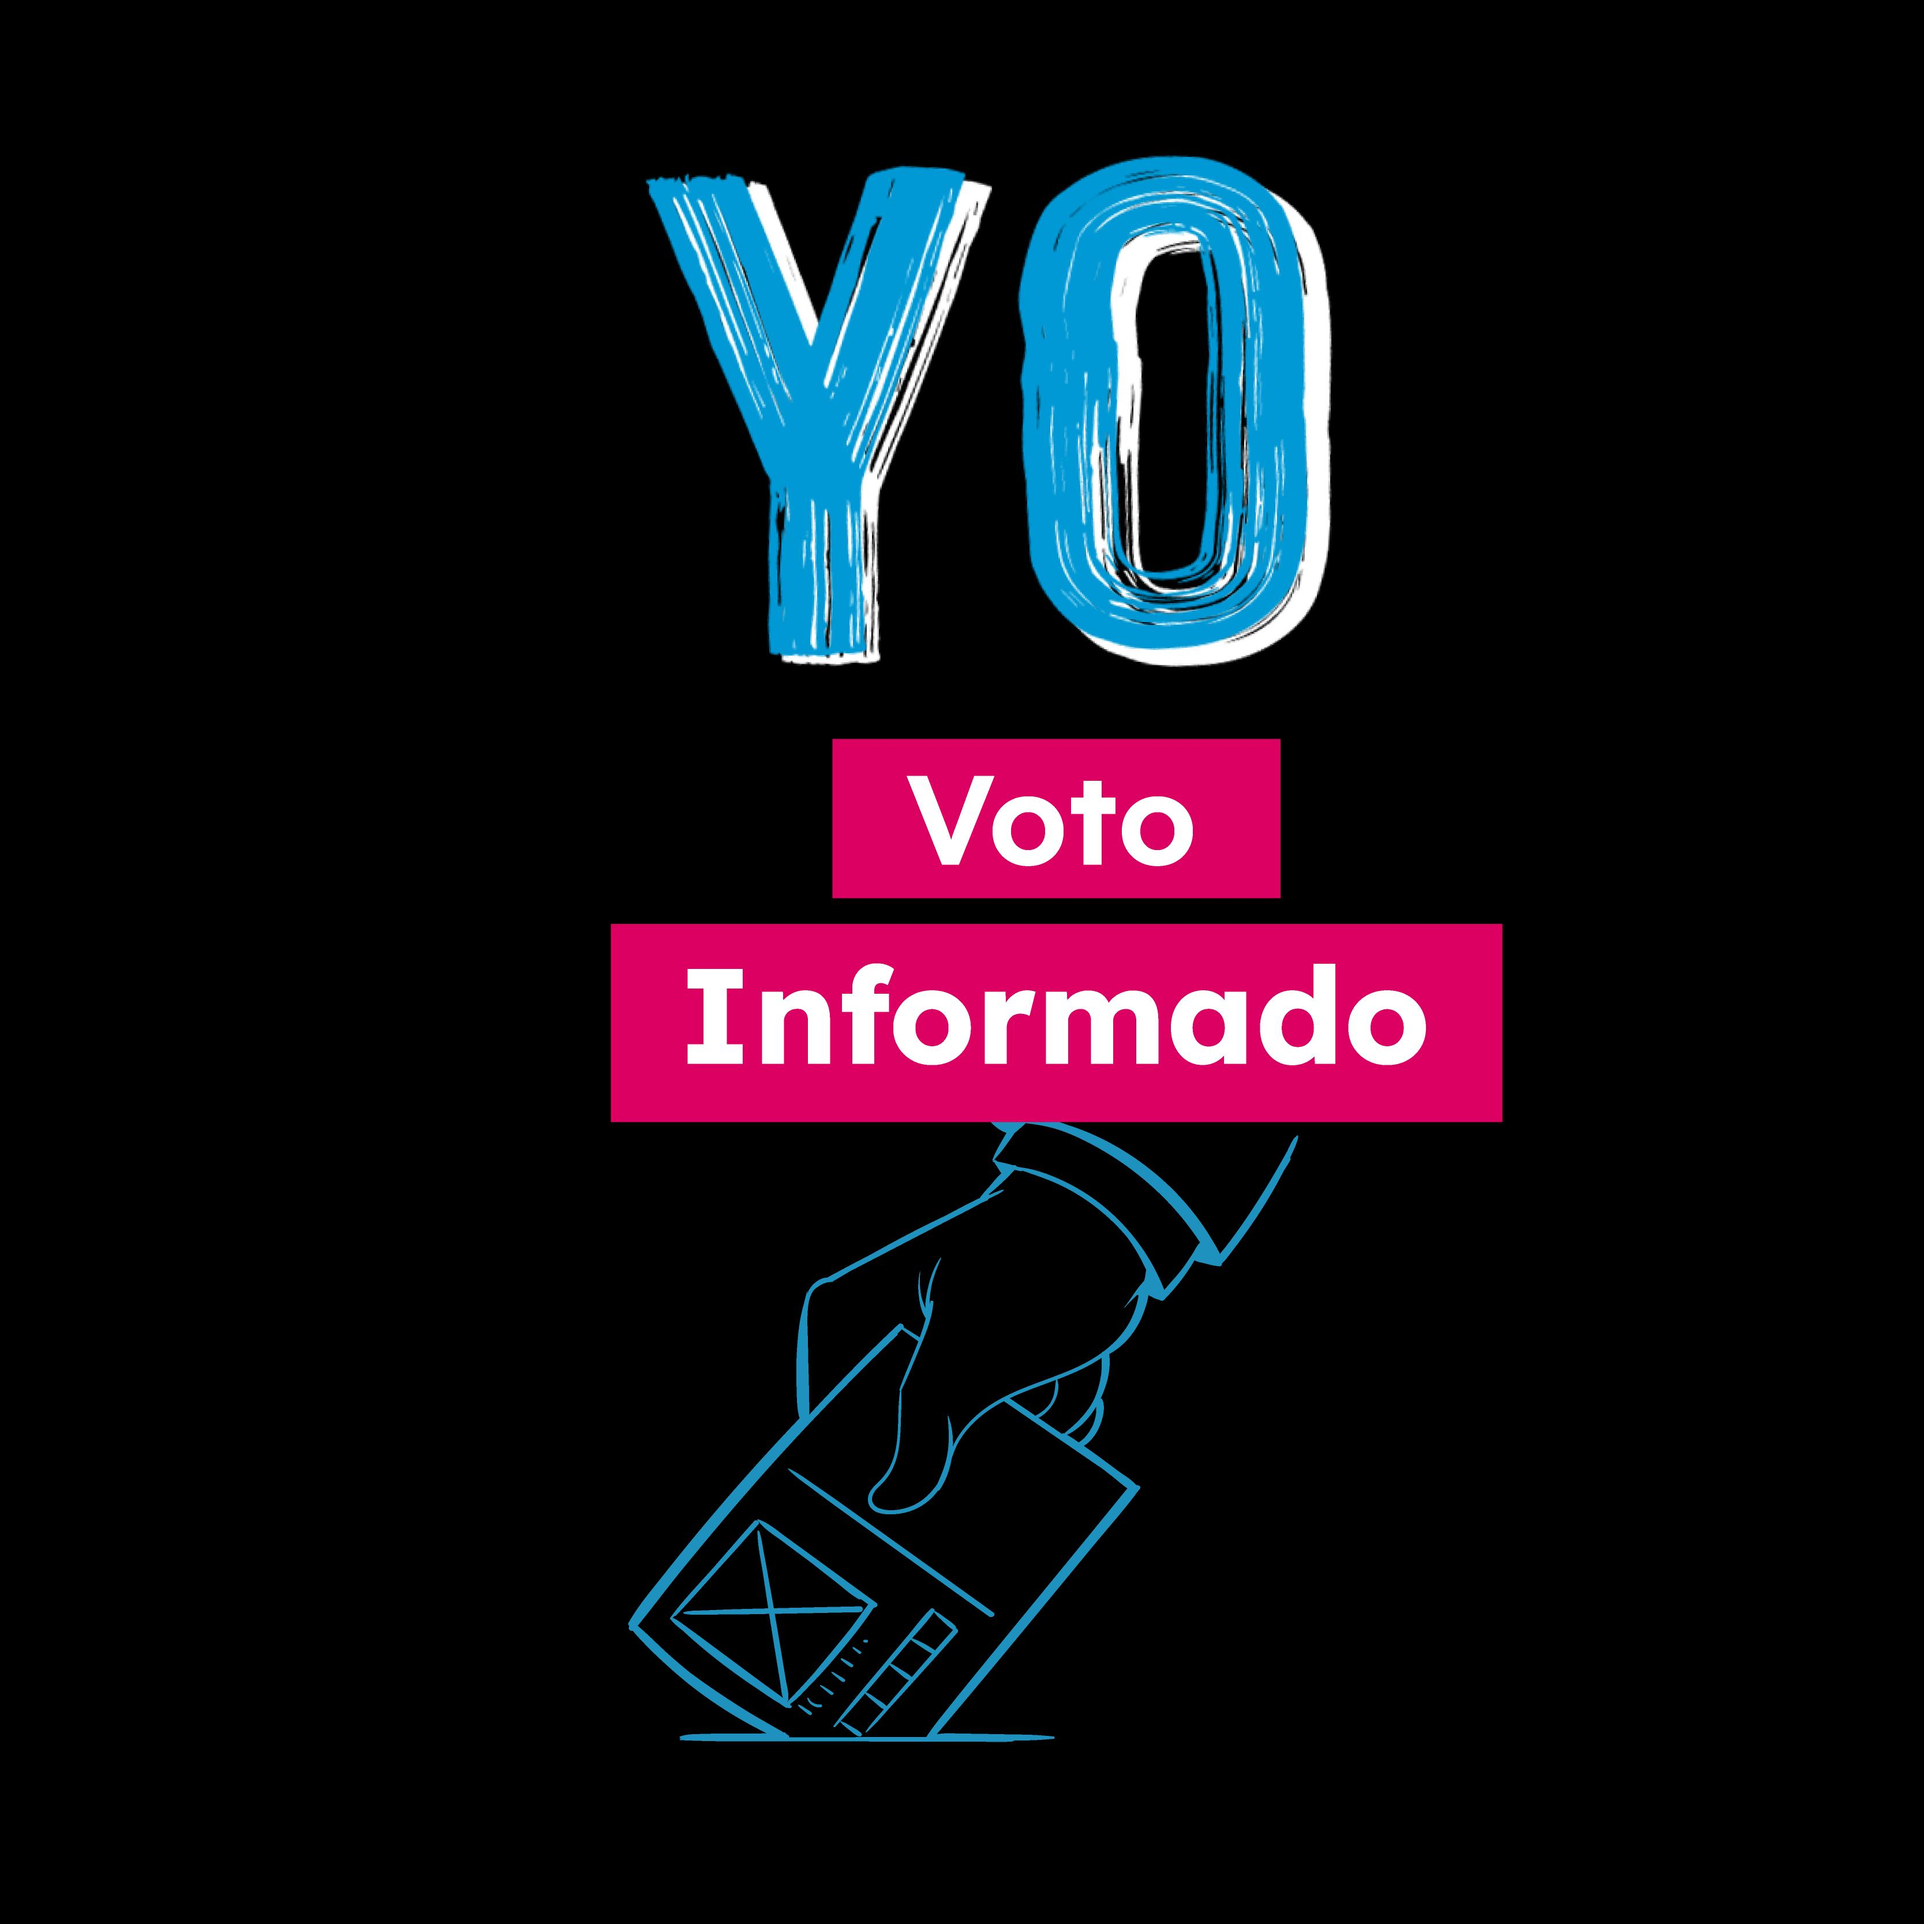
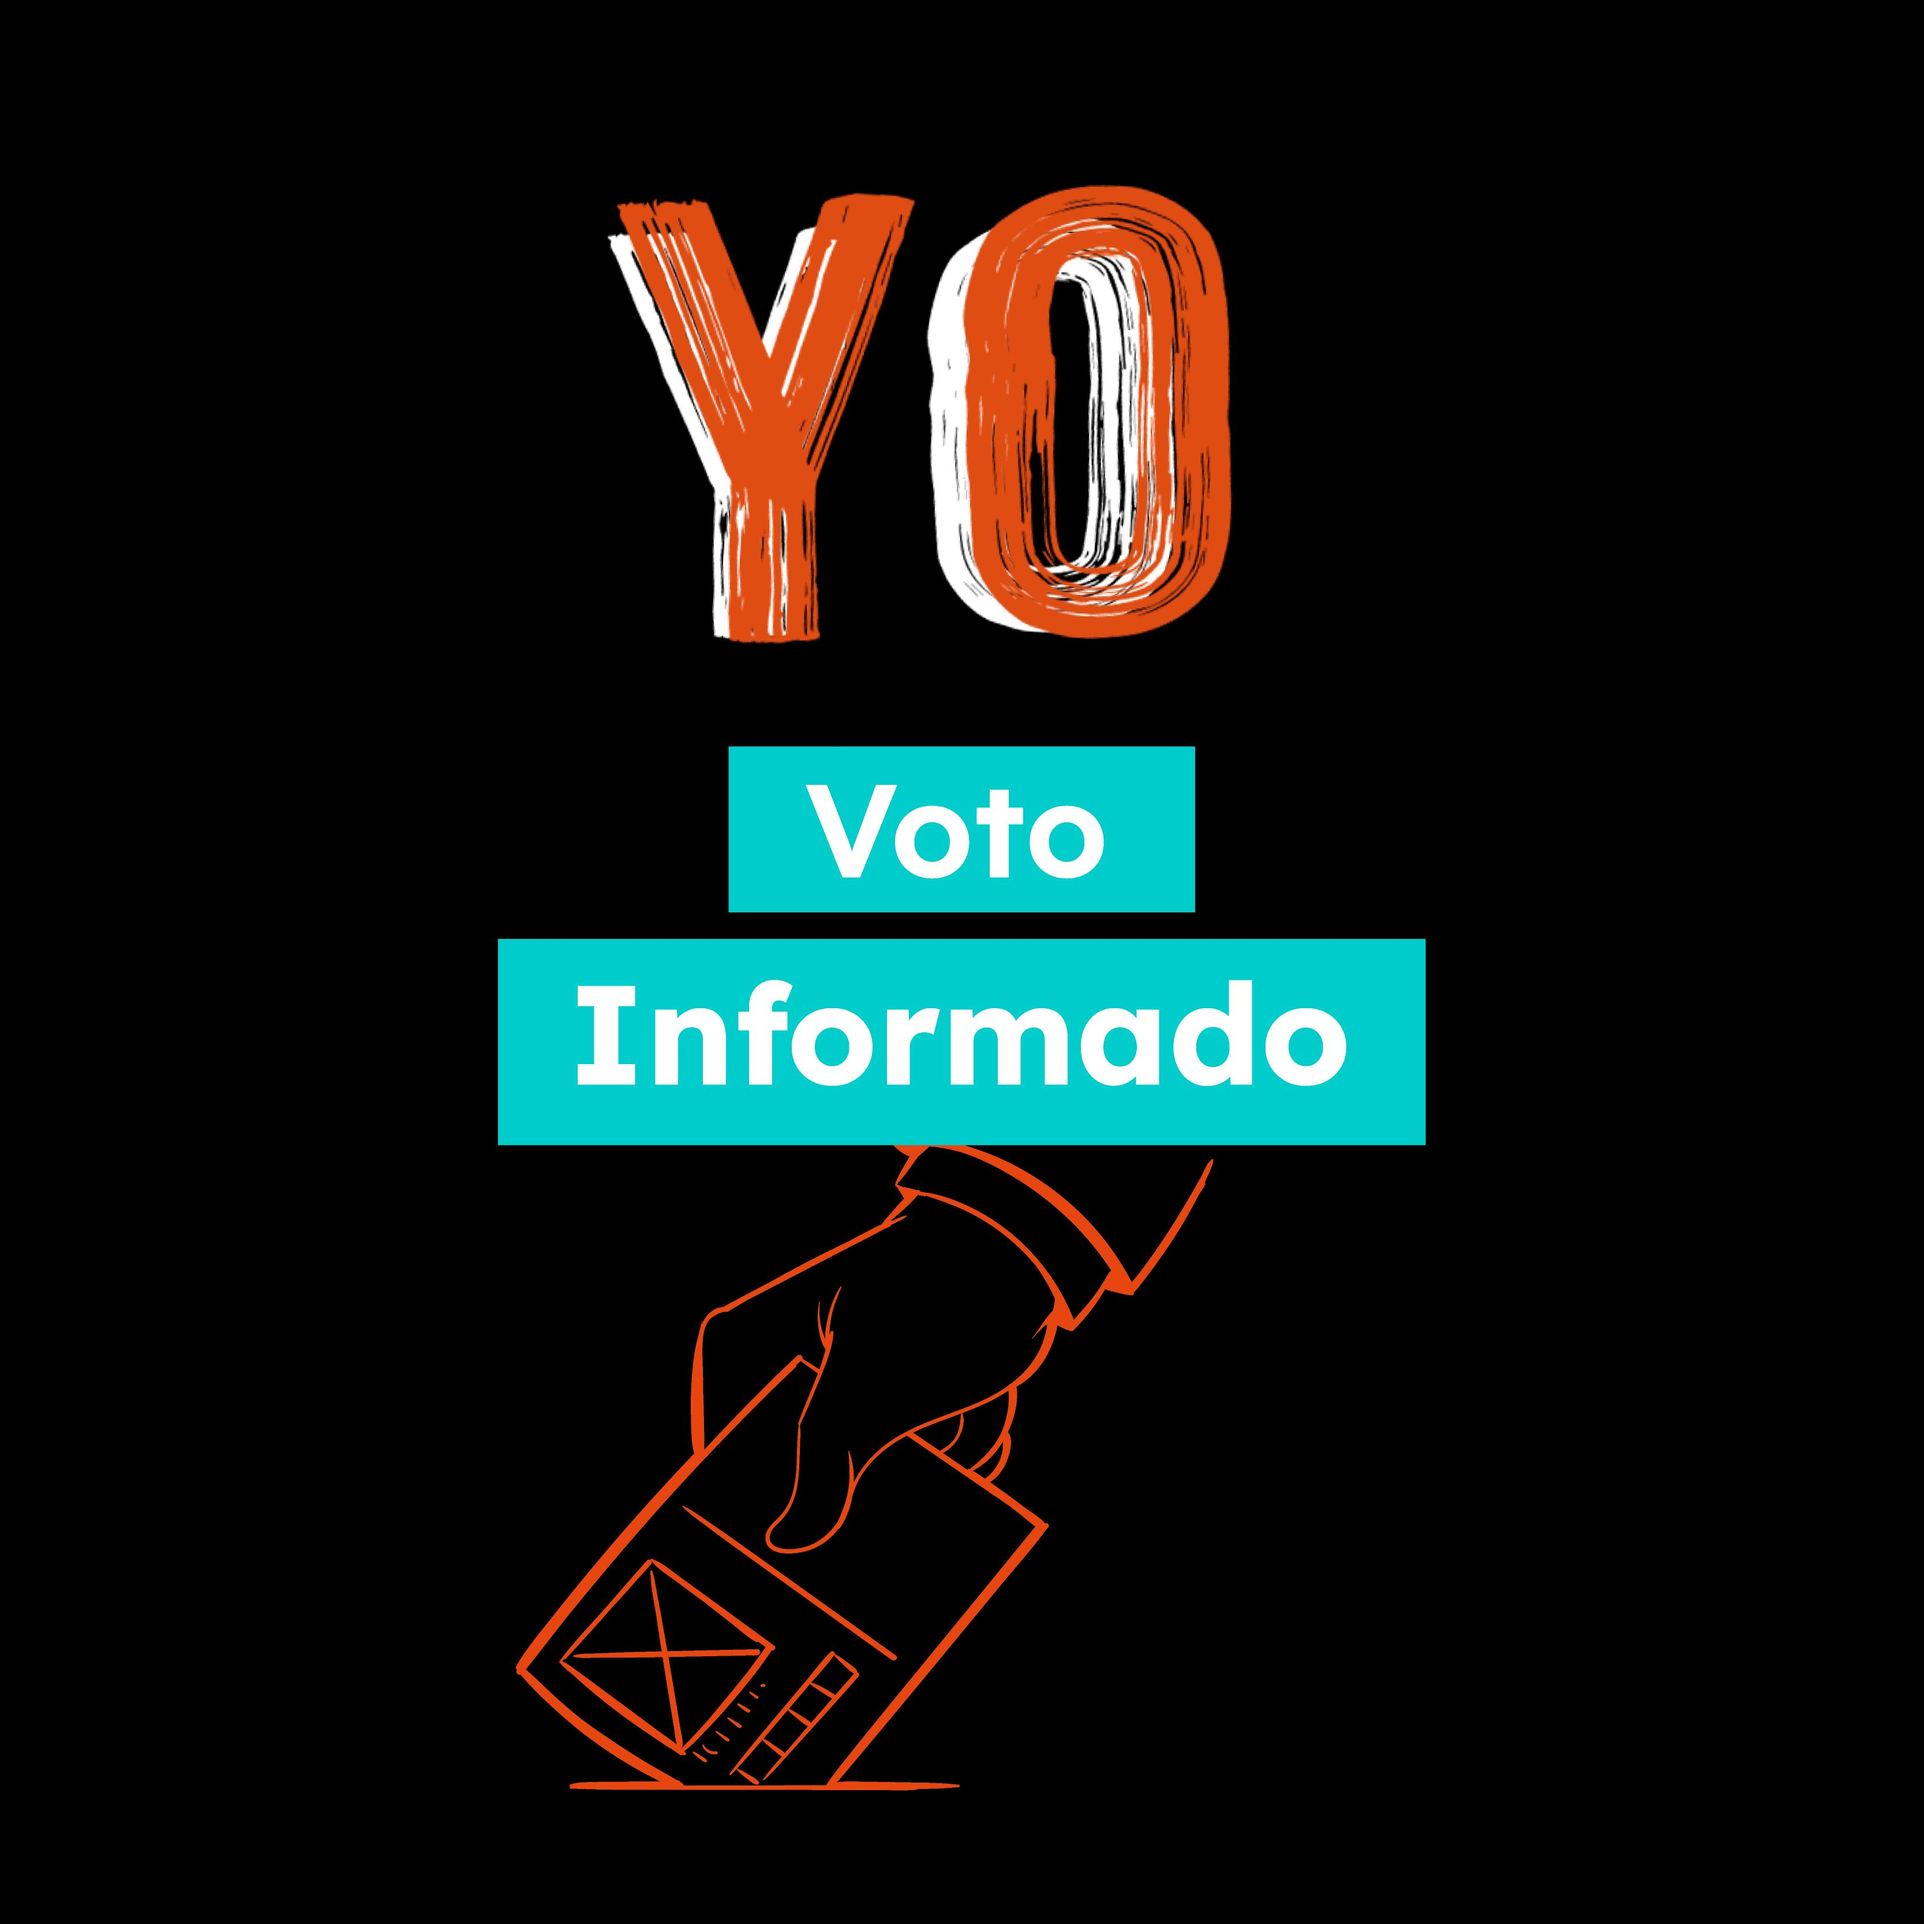
#ff4f00 #FFCD00 usa estos 2 colores para el diseño de los efectos al toc

Changed region(s): [[0.2496, 0.0624, 0.7798, 0.9358]]

diff --git a/src/app/globals.css b/src/app/globals.css
@@ -10,19 +10,19 @@
     --card-foreground: 0 0% 3.9%;
     --popover: 0 0% 100%;
     --popover-foreground: 0 0% 3.9%;
-    --primary: 195 100% 40%;
+    --primary: 19 100% 50%;
     --primary-foreground: 0 0% 98%;
     --secondary: 0 0% 96.1%;
     --secondary-foreground: 0 0% 9%;
     --muted: 0 0% 96.1%;
     --muted-foreground: 0 0% 45.1%;
-    --accent: 338 86% 55%;
-    --accent-foreground: 0 0% 98%;
+    --accent: 48 100% 50%;
+    --accent-foreground: 0 0% 3.9%;
     --destructive: 0 84.2% 60.2%;
     --destructive-foreground: 0 0% 98%;
     --border: 0 0% 89.8%;
     --input: 0 0% 89.8%;
-    --ring: 195 100% 40%;
+    --ring: 19 100% 50%;
     --radius: 1rem;
   }
   .dark {
@@ -32,19 +32,19 @@
     --card-foreground: 0 0% 98%;
     --popover: 240 10% 3.9%;
     --popover-foreground: 0 0% 98%;
-    --primary: 195 100% 40%;
+    --primary: 19 100% 50%;
     --primary-foreground: 0 0% 98%;
     --secondary: 240 3.7% 15.9%;
     --secondary-foreground: 0 0% 98%;
     --muted: 240 3.7% 15.9%;
     --muted-foreground: 0 0% 63.9%;
-    --accent: 338 86% 55%;
-    --accent-foreground: 0 0% 98%;
+    --accent: 48 100% 50%;
+    --accent-foreground: 0 0% 3.9%;
     --destructive: 0 62.8% 30.6%;
     --destructive-foreground: 0 0% 98%;
     --border: 240 3.7% 15.9%;
     --input: 240 3.7% 15.9%;
-    --ring: 195 100% 40%;
+    --ring: 19 100% 50%;
   }
 }
 
